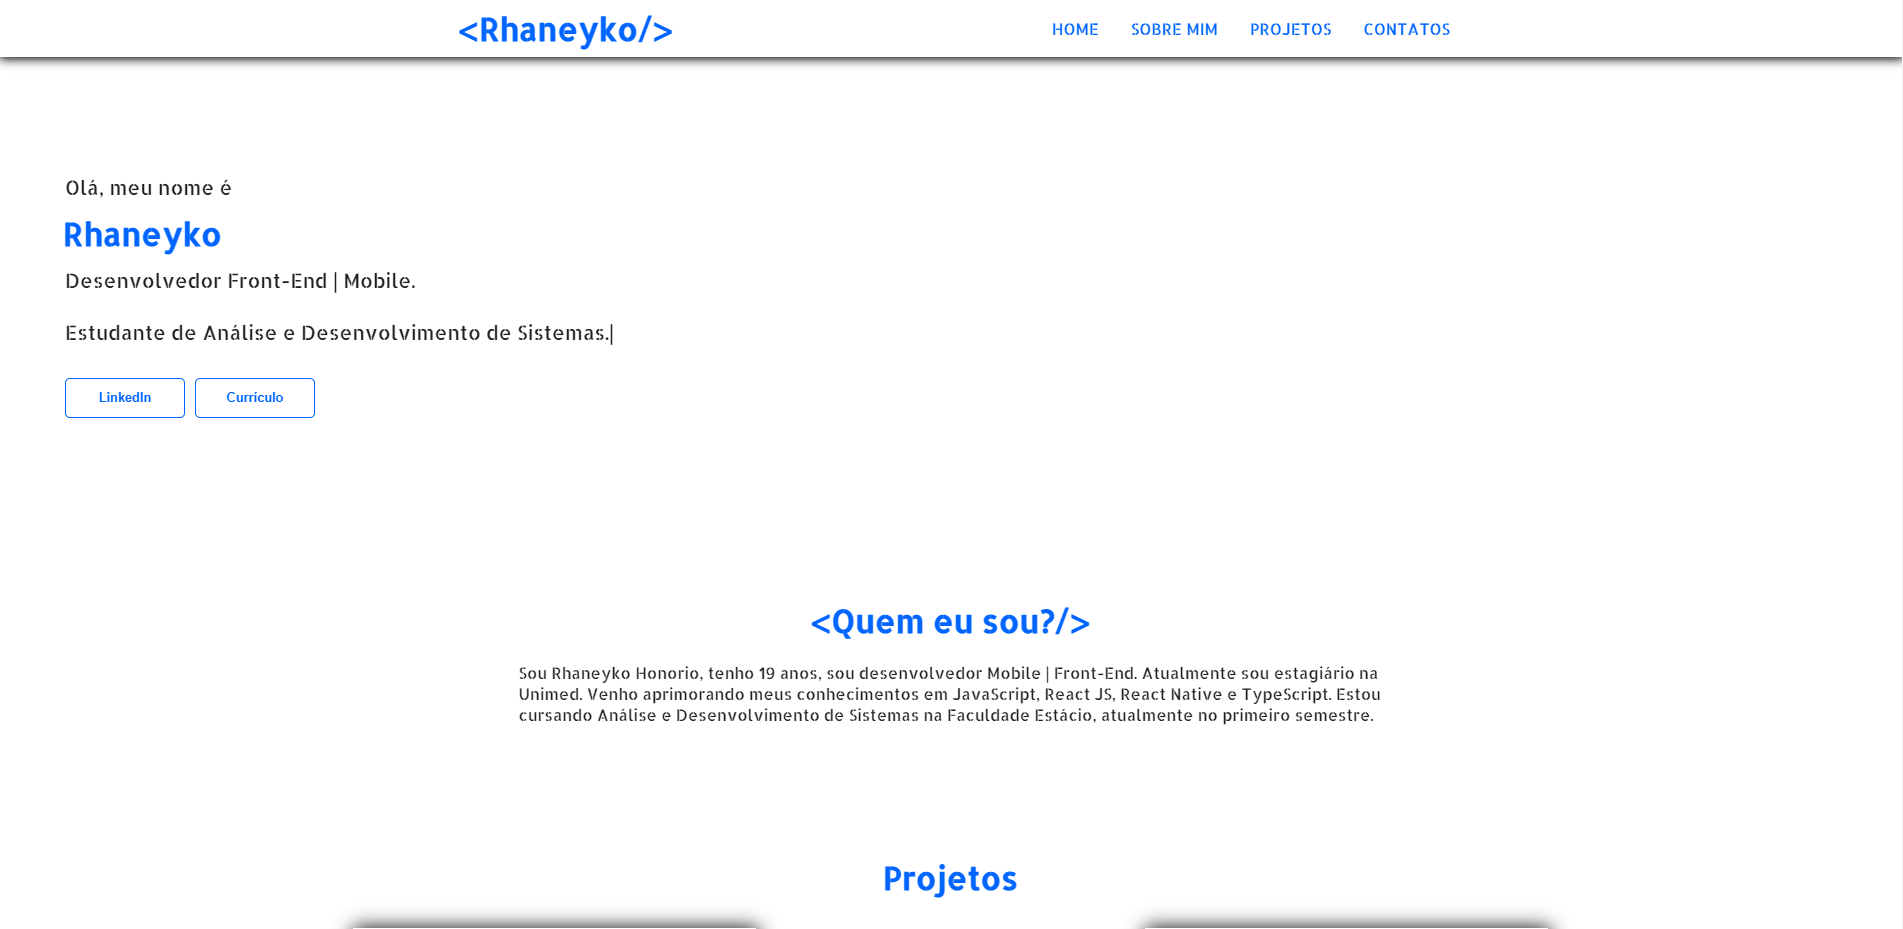
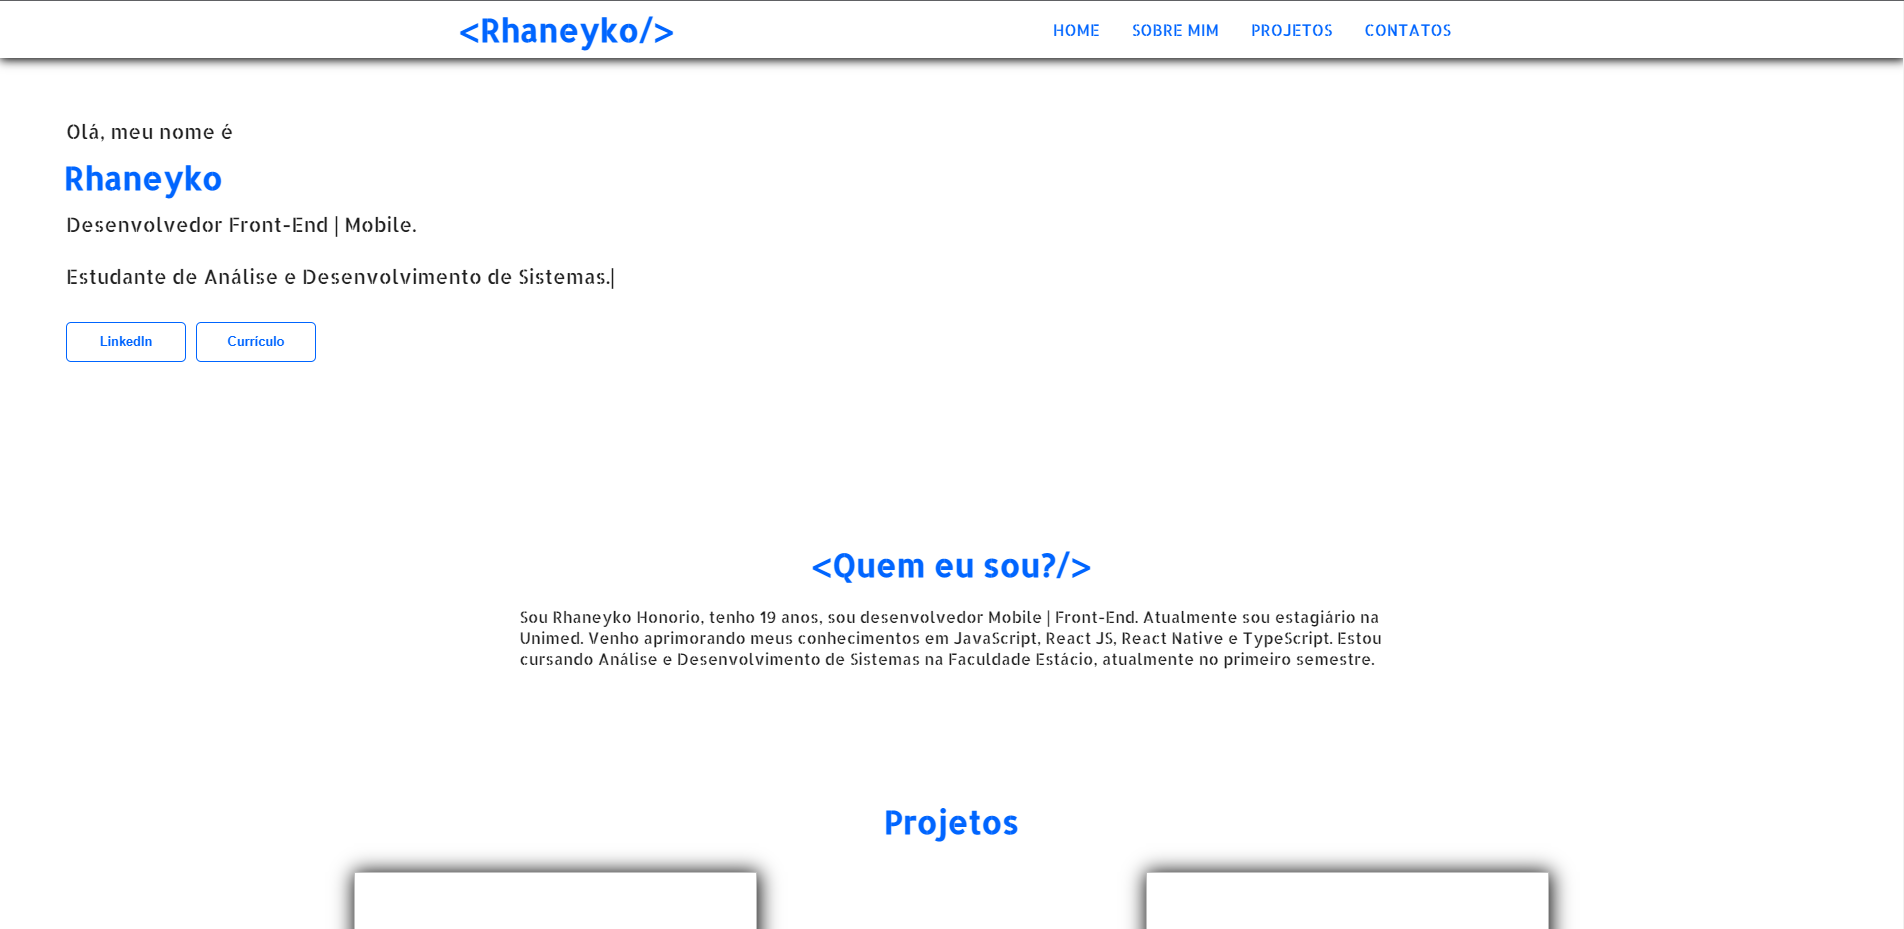
React App

diff --git a/src/components/CardsProjects/index.tsx b/src/components/CardsProjects/index.tsx
@@ -1,8 +1,5 @@
 import React from 'react';
 //import Carousel from 'react-elastic-carousel'
-
-import PorfolioImage from '../../../src/assets/portfolioImage.png'
-
 import { 
     Container,
     CardProject,
@@ -28,7 +25,7 @@ const CardsProjects = () => {
 
         <Container>
             <CardProject className='card transation'>
-              <Image src={PorfolioImage}/>
+              <Image/>
             <ProjectName className='projectTitle'>Portfolio</ProjectName>
             <ProjectDescription className='projectDescription'>
                Portfolio feito com React, TypeScript e para estilização usei Styled Components.

diff --git a/README.md b/README.md
@@ -5,7 +5,7 @@
 
 ## 🎨 Layout
 
-![image](https://github.com/rhaneyko/rhaneyko-portifolio/blob/master/src/assets/portfolioImage.png)
+![image]('../../src/assets/portfolioImage.png')
 
 ## Tecnologias
 
